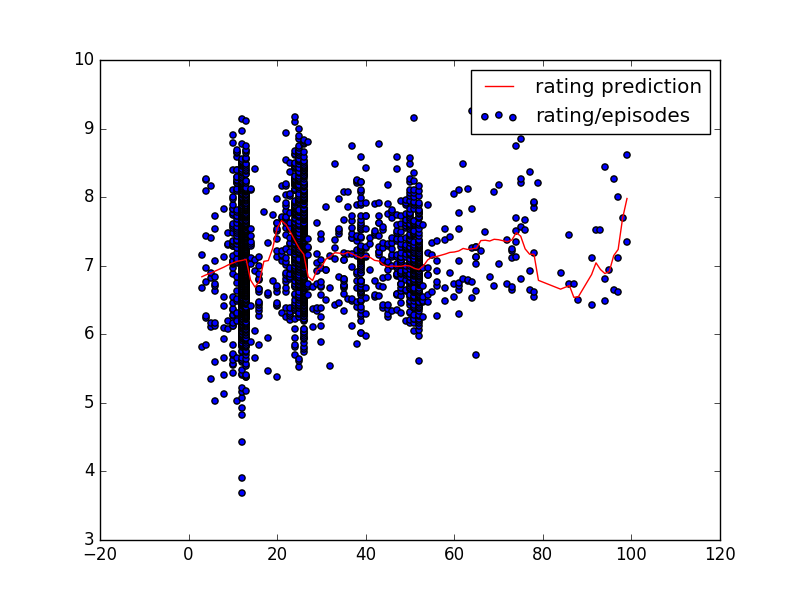
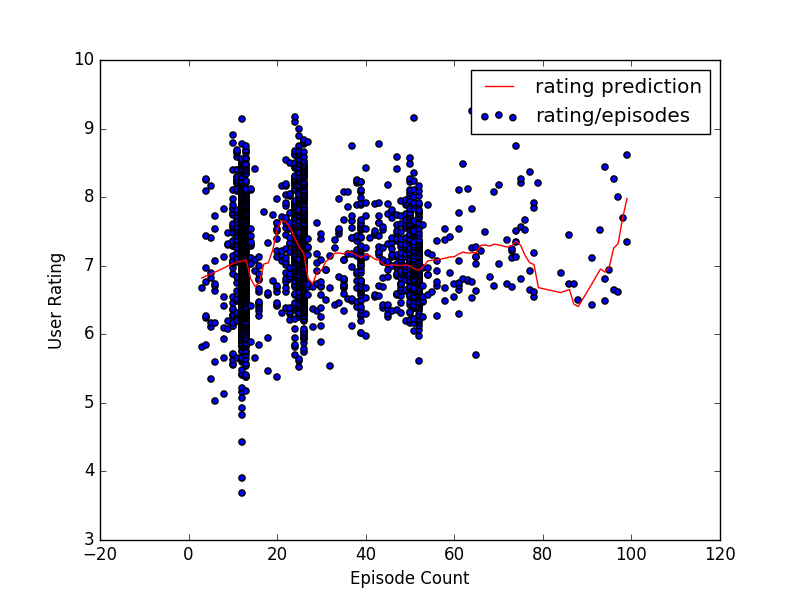
Updated images

diff --git a/DataRepository/LinearRegressionTrial.py b/DataRepository/LinearRegressionTrial.py
@@ -32,35 +32,36 @@ if __name__=='__main__':
         if (anime.score < 2):
             continue
         num = random.random()
-        x = anime.score
-        y = []
+        y = anime.score
+        x = []
 
         if(testType == TestType.episodes):
-            if anime.episodes <= 0 or anime.episodes >= 100:
+        if (anime.score < 2 or anime.episodes <= 0 
+            or anime.episodes >= 100 or anime.duration <= 0):
                 continue
-            y = [anime.episodes]
+            x = [anime.episodes]
             graphLabel = 'rating/episodes'
         elif (testType == TestType.startMonth):
-            y = [anime.getMonth()]
+            x = [anime.getMonth()]
             graphLabel = 'rating/start month'
         elif (testType == TestType.startYear):
-            y = [anime.getYear()]
+            x = [anime.getYear()]
             graphLabel = 'rating/start year'
         elif (testType == TestType.ratingCount):
-            y = [anime.ratingCount]
+            x = [anime.ratingCount]
             graphLabel = 'rating/user rating count'
         elif (testType == TestType.duration):
             if anime.duration <= 0:
                 continue
-            y = [anime.duration]
+            x = [anime.duration]
             graphLabel = 'rating/duration'
         elif (testType == TestType.ageRating):
-            y = [anime.ageRating]
+            x = [anime.ageRating]
             graphLabel = 'rating/age rating'
 
         if (num <= .25):
-            testYList.append(x)
-            testXList.append(y)
+            testYList.append(y)
+            testXList.append(x)
         else:
             sampleYList.append(y)
             sampleXList.append(x)
@@ -77,30 +78,17 @@ if __name__=='__main__':
 
     errorArray = []
 
-    #lr = linear_model.LogisticRegression()
-    #lr.fit(sampleX,sampleY)
+    lr = linear_model.LogisticRegression()
+    lr.fit(sampleX,sampleY)
 
-    for x in sampleX:
-        if x <= 0:
-            print x
+    for i in range(0, len(testX)-1):
+        pre = lr.predict(testX[i])
+        diff = abs(pre - testY[i])
+        errorArray.append((diff/testY[i])*100)
 
-    yest = LOWESS.lowess(sampleX, sampleY)
+    print np.mean(errorArray)
 
-    import pylab as pl
-    pl.clf()
-    pl.plot(sampleX, sampleY, label='y noisy')
-    pl.plot(sampleX, yest, label='y pred')
+    pl.scatter(testX, testY, label=graphLabel, color='red')
+    pl.plot(testX, lr.predict(testX), label='rating prediction')
     pl.legend()
     pl.show()
-
-    #for i in range(0, len(testX)-1):
-    #    pre = lr.predict(testX[i])
-    #    diff = abs(pre - testY[i])
-    #    errorArray.append((diff/testY[i])*100)
-
-    #print np.mean(errorArray)
-
-    #pl.scatter(testX, testY, label=graphLabel, color='red')
-    #pl.plot(testX, lr.predict(testX), label='rating prediction')
-    #pl.legend()
-    #pl.show()

diff --git a/DataRepository/LocalLinearRegression.py b/DataRepository/LocalLinearRegression.py
@@ -19,7 +19,7 @@ if __name__=='__main__':
     plugs = DatabasePlugs.DatabasePlugs()
     animeList = plugs.getAllAnime()
 
-    testType = TestType.episodes
+    testType = TestType.duration
 
     graphLabel = ""
 
@@ -36,35 +36,34 @@ if __name__=='__main__':
         y = anime.score
         x = []
 
-        xLabel = "User Rating"
-        yLabel = ""
+        yLabel = "User Rating"
+        xLabel = ""
         if(testType == TestType.episodes):
             x = anime.episodes
             graphLabel = 'rating/episodes'
-            yLabel = "Episode Count"
+            xLabel = "Episode Count"
         elif (testType == TestType.startMonth):
             x = anime.getMonth()
             graphLabel = 'rating/start month'
-            yLabel = "Start Month"
+            xLabel = "Start Month"
         elif (testType == TestType.startYear):
             x = anime.getYear()
             graphLabel = 'rating/start year'
-            yLabel = "Start Year"
+            xLabel = "Start Year"
         elif (testType == TestType.ratingCount):
             x = anime.ratingCount
             graphLabel = 'rating/user rating count'
-            yLabel = "Number of Users Rating"
+            xLabel = "Number of Users Rating"
         elif (testType == TestType.duration):
             x = anime.duration
             graphLabel = 'rating/duration'
-            yLabel = "Episode Duration"
+            xLabel = "Episode Duration"
         elif (testType == TestType.ageRating):
             x = anime.ageRating
             graphLabel = 'rating/age rating'
-            yLabel = "Age Rating"
+            xLabel = "Age Rating"
 
-
-        if (num <= .25):
+        if (num <= .1):
             testYList.append(y)
             testXList.append(x)
         else:
@@ -78,7 +77,7 @@ if __name__=='__main__':
 
     from matplotlib import pyplot as pl
 
-    yest = LOWESS.lowess(sampleX, sampleY)
+    yest = LOWESS.lowess(sampleX, sampleY, iter=10)
 
     import pylab as pl
     pl.clf()
